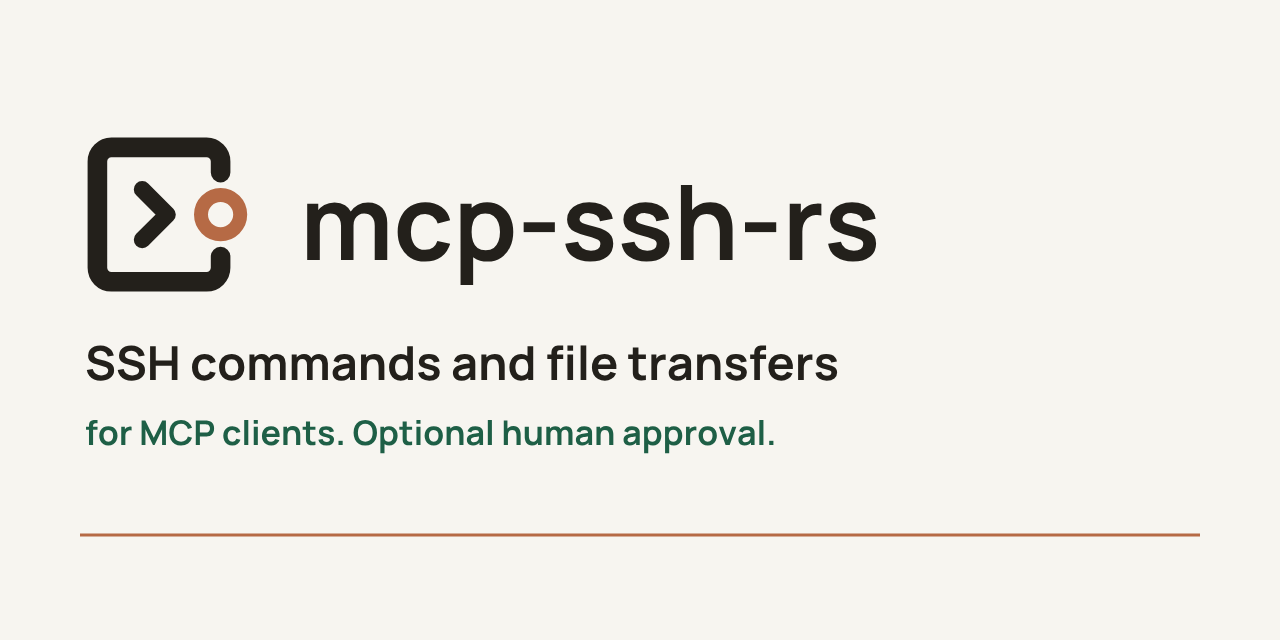
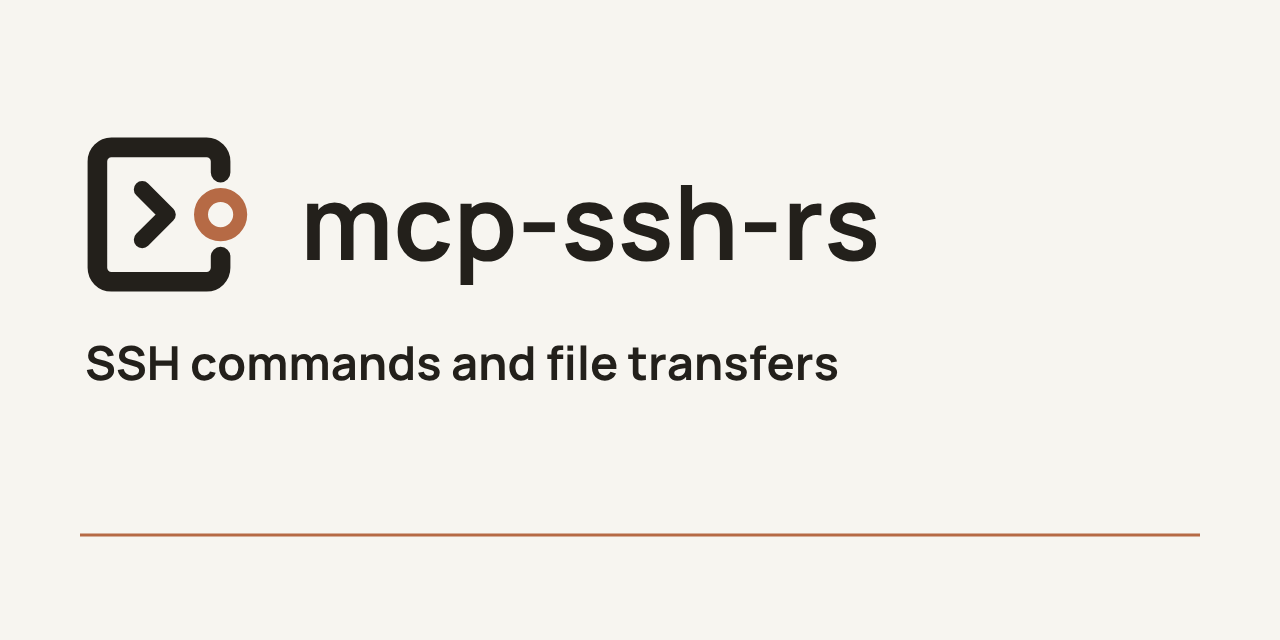
Remove the secondary social-preview tagline
Keep the approved preview concise by removing the unwanted secondary copy
from both its editable source and rendered exports.

Changed region(s): [[0.0625, 0.6562, 0.5938, 0.7188]]

diff --git a/docs/branding/export.py b/docs/branding/export.py
@@ -70,7 +70,6 @@ def main():
     social += '<g transform="translate(75 125) scale(2.8)">' + mark("#23201b", "#b66a45") + '</g>'
     social += text("mcp-ssh-rs", 300, 260, 104, "#23201b")
     social += text("SSH commands and file transfers", 85, 380, 47, "#23201b")
-    social += text("for MCP clients. Optional human approval.", 85, 445, 34, "#1e5f46")
     svg("social-preview.svg", 1280, 640, social)
 
 
